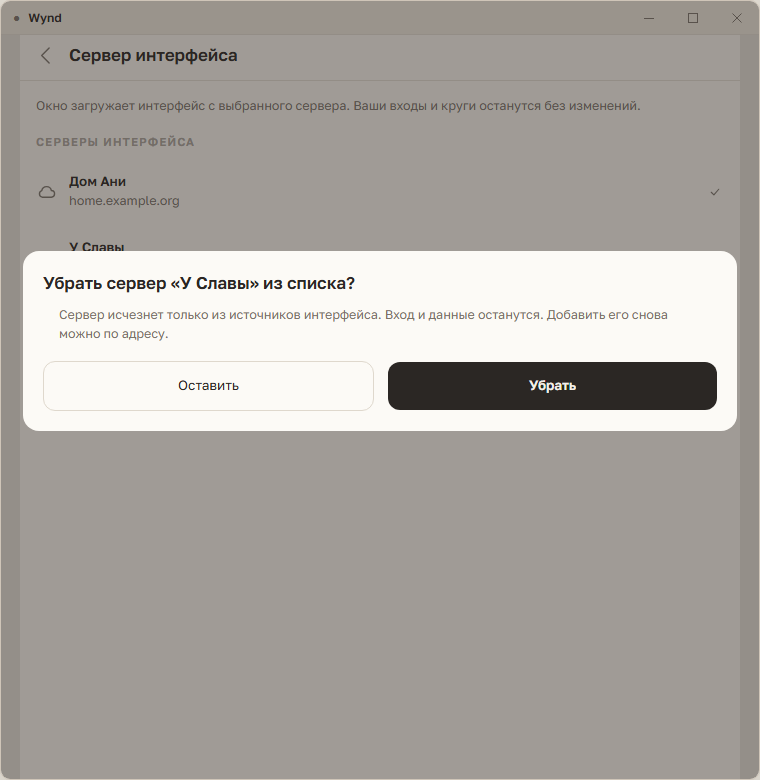
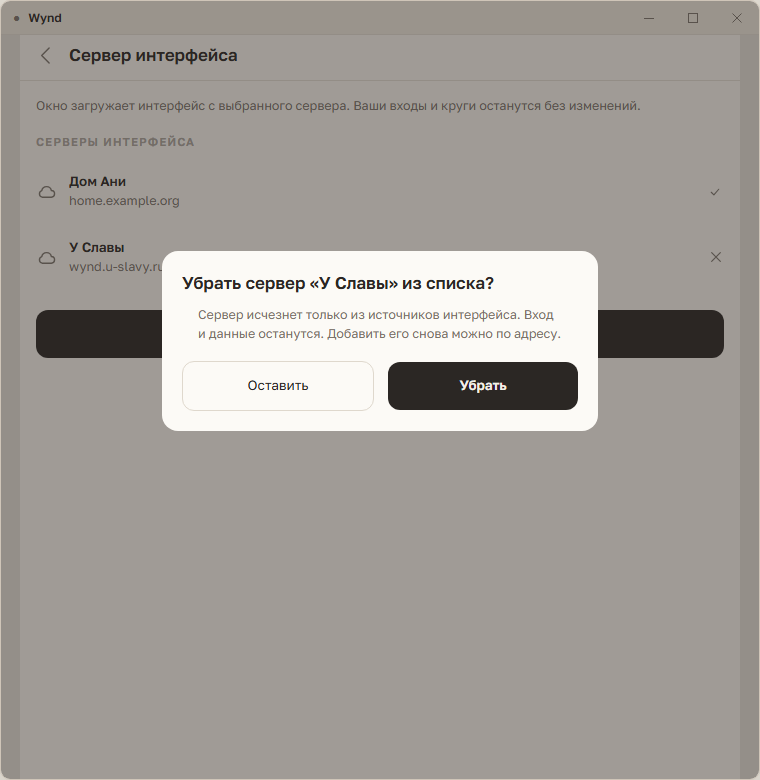
План 62: стандартная ширина подтверждения удаления

Changed region(s): [[0.0303, 0.3077, 0.9684, 0.5538], [0.6053, 0.4615, 0.6658, 0.5231], [0.3329, 0.4923, 0.3934, 0.5231]]

diff --git a/docs/plans/62-desktop-servers-settings.plan.md b/docs/plans/62-desktop-servers-settings.plan.md
@@ -50,7 +50,7 @@
 - Неактивный источник имеет крестик; у текущего крестика нет. Отдельный экран удаления отклонён владельцем 2026-11-10: не плодить одинаковые экраны. Крестик открывает стандартный `ConfirmDialog` «Убрать сервер … из списка?» с пояснением, что входы и данные останутся, и кнопками «Убрать» / «Оставить». Сразу без подтверждения не удаляем.
 - Если входов нет, «Серверы» показывает пустой список учётных записей, а не отсутствие приложения: «Вы ни на одном сервере не вошли. Интерфейс продолжит открываться с сервера …».
 - **Кадр «Интерфейс открыт, но входа нет» принят владельцем 2026-11-10 ответом «да»** — и смысл, и показанная вёрстка. Он становится основой реализации этого состояния.
-- Первый кадр смены источника не принят: плашка и стрелка у альтернативы заменены существующим шаблоном выбора. **Исправленный кадр 5 и диалог удаления приняты владельцем 2026-11-10 ответом «Да»**: две строки текста у каждого сервера, галочка у текущего, крестик у неактивного, обязательное подтверждение с «Убрать» / «Оставить». Они становятся основой реализации.
+- Первый кадр смены источника не принят: плашка и стрелка у альтернативы заменены существующим шаблоном выбора. **Исправленный кадр 5 принят владельцем 2026-11-10 ответом «Да»**: две строки текста у каждого сервера, галочка у текущего, крестик у неактивного. Смысл и действия диалога также согласованы: обязательное подтверждение с «Убрать» / «Оставить». Затем владелец заметил нестандартную ширину диалога; широкий вариант отклонён, исправление на стандартные 436 px требует отдельной визуальной приёмки.
 
 ### Проверка кадров
 
@@ -61,8 +61,8 @@
 - Первые кадры Б: [принятое состояние без входа](../visual/reviews/desktop-server-roles-2026-11-10/roles-b-no-login.png), [отклонённая раскладка смены источника](../visual/reviews/desktop-server-roles-2026-11-10/roles-b-change.png).
 - Полный сценарий собран в [отдельном исходнике](62-desktop-server-flow.frames.svelte.txt), без вариантов А и В. Команда рендера: `node dev/desktop-mockup/render-server-flow.mjs`. Исправленный кадр 5 и его диалог собраны в [отдельном исходнике выбора](62-desktop-server-choice.frames.svelte.txt) на основе `ReceivingServerPicker.svelte`; команда: `node dev/desktop-mockup/render-server-choice.mjs`.
 - Порядок и изображения: [1 · Настройки](../visual/reviews/desktop-server-flow-2026-11-10/flow-settings.png), [2 · Серверы](../visual/reviews/desktop-server-flow-2026-11-10/flow-servers.png), [3 · Вход](../visual/reviews/desktop-server-flow-2026-11-10/flow-login.png), [4 · Приложение](../visual/reviews/desktop-server-flow-2026-11-10/flow-app.png), [5 · Смена источника](../visual/reviews/desktop-server-flow-2026-11-10/flow-change-standard.png), [подтверждение удаления](../visual/reviews/desktop-server-flow-2026-11-10/flow-change-confirm.png), [6 · Добавление источника](../visual/reviews/desktop-server-flow-2026-11-10/flow-add-interface.png), [7 · Без входа](../visual/reviews/desktop-server-flow-2026-11-10/flow-no-login.png). Для проверки действия в конце длинного списка дополнительно снят [низ «Серверов»](../visual/reviews/desktop-server-flow-2026-11-10/flow-servers-bottom.png). Прежний `flow-change.png` с плашкой и стрелкой заменён и не является действующим вариантом.
-- Осмотр полного набора: шапки, навигация, типографика, переносы и основные действия отображаются без наложений. На исправленном кадре смены обе строки имеют по две строки текста: у выбранного сервера галочка, у неактивного — крестик. Диалог подтверждения показан поверх того же экрана, пояснение и обе кнопки помещаются. «Войти на сервер» на заполненном экране учётных записей доступно обычной прокруткой и полностью видно в её нижней части. Кадр 7 повторяет принятую разметку и визуально совпадает с прежним снимком; файлы PNG не являются побайтово идентичными из-за рендера.
-- Это браузерная проверка настоящего Svelte, не снимок WebView2 и не подтверждение поведения. Структура Б, состояние без входа, кадр 5 и диалог удаления приняты; вёрстка кадров 1–4 и 6 остаётся черновой до ответа владельца.
+- Осмотр полного набора: шапки, навигация, типографика, переносы и основные действия отображаются без наложений. На исправленном кадре смены обе строки имеют по две строки текста: у выбранного сервера галочка, у неактивного — крестик. Диалог подтверждения показан поверх того же экрана со стандартной шириной 436 px по центру; пояснение и обе кнопки помещаются. «Войти на сервер» на заполненном экране учётных записей доступно обычной прокруткой и полностью видно в её нижней части. Кадр 7 повторяет принятую разметку и визуально совпадает с прежним снимком; файлы PNG не являются побайтово идентичными из-за рендера.
+- Это браузерная проверка настоящего Svelte, не снимок WebView2 и не подтверждение поведения. Структура Б, состояние без входа и кадр 5 приняты; вёрстка кадров 1–4 и 6 остаётся черновой. Исправленный по ширине диалог показан владельцу и ждёт подтверждения вёрстки.
 
 ## Сделано и выпущено в этой сессии (контекст)
 
